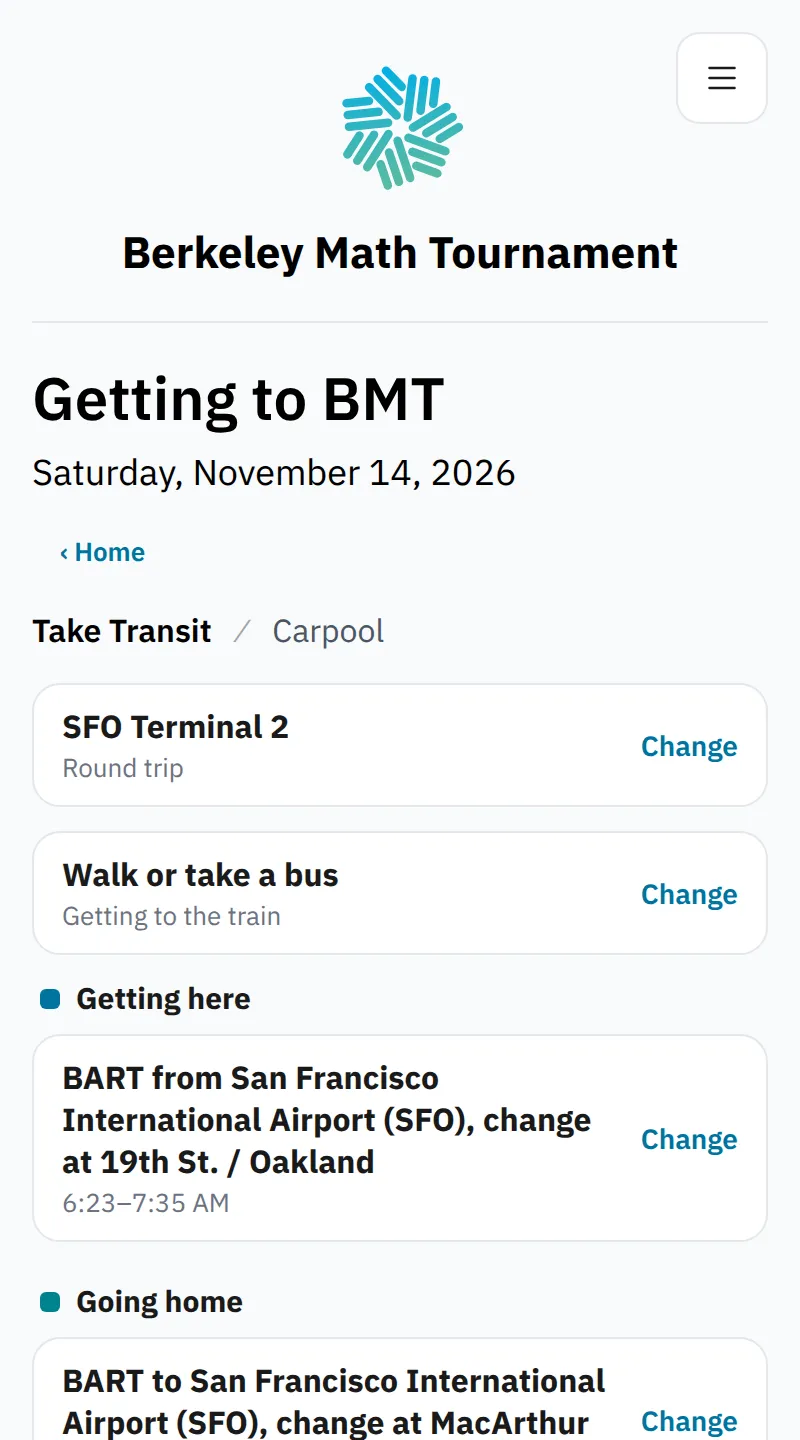
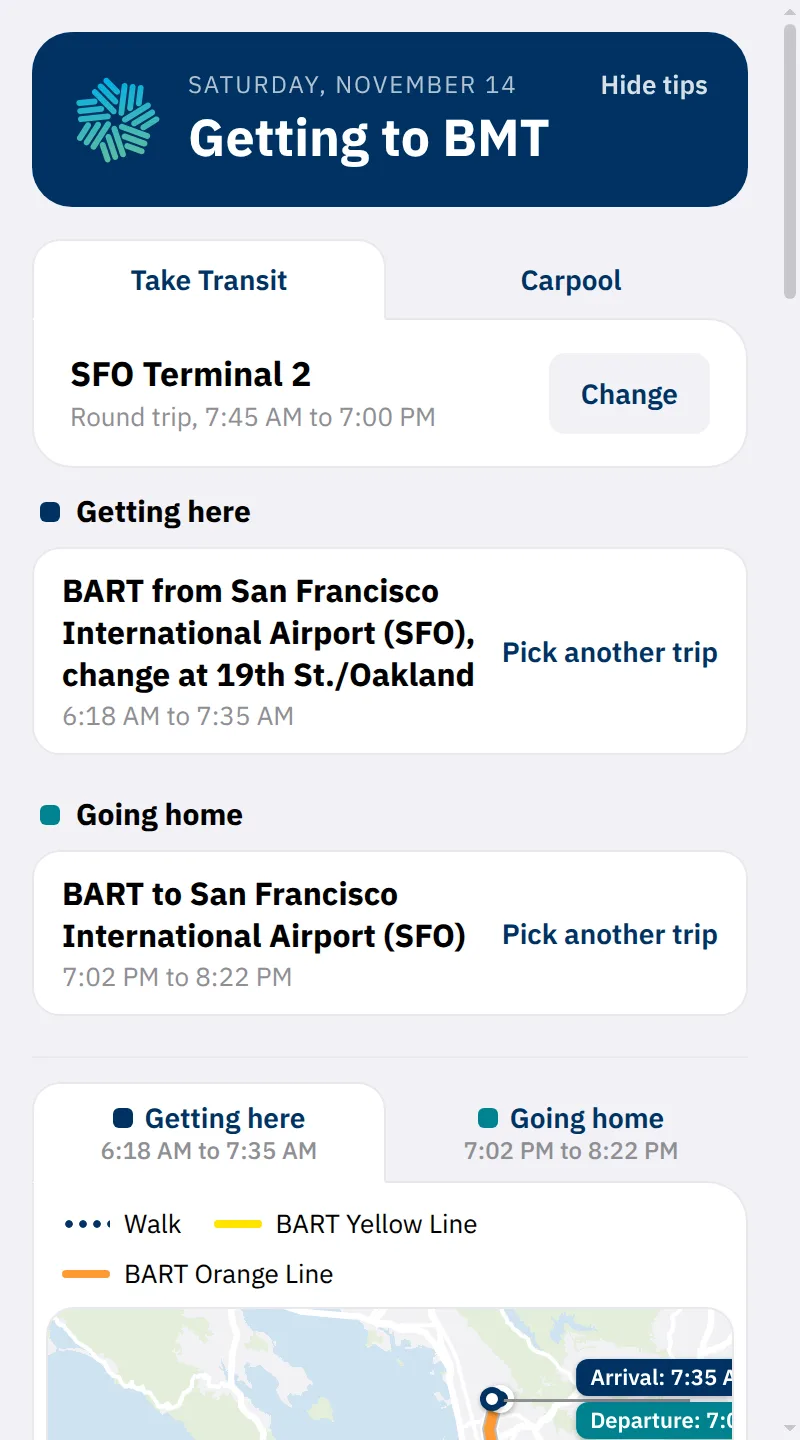
Widen the planner embed on desktop, add tap to pay to fares

diff --git a/templates/shortcodes/planner_embed.html b/templates/shortcodes/planner_embed.html
@@ -1,9 +1,12 @@
 <div class="not-prose my-6 flex flex-col items-center gap-2">
-    <div class="relative w-full max-w-[400px] aspect-[5/9] rounded-xl border border-gray-300 bg-white overflow-hidden">
-        <img src="{{ poster }}" alt="{{ alt }}" loading="lazy" class="w-full h-full object-cover object-top">
+    <div class="relative w-full max-w-[400px] aspect-[5/9] {% if wide %}sm:max-w-none sm:aspect-[3/2] {% endif %}rounded-xl border border-gray-300 bg-white overflow-hidden">
+        <picture>
+            {% if wide %}<source media="(min-width: 640px)" srcset="{{ wide }}">{% endif %}
+            <img src="{{ poster }}" alt="{{ alt }}" loading="lazy" class="w-full h-full object-cover object-top">
+        </picture>
         <div class="absolute inset-x-0 bottom-0 h-40 bg-gradient-to-t from-white via-white/80 to-transparent pointer-events-none"></div>
         <a href="https://taketransit.berkeley.mt/{{ path | safe }}"
-            onclick="if (matchMedia('(max-width: 640px)').matches) return; event.preventDefault(); var f = document.createElement('iframe'); f.src = this.href; f.title = 'BMT Trip Planner'; f.className = 'w-full h-full'; var box = this.parentElement; box.nextElementSibling.classList.remove('hidden'); box.replaceChildren(f);"
+            onclick="if (matchMedia('(max-width: 639px)').matches) return; event.preventDefault(); var f = document.createElement('iframe'); f.src = this.href; f.title = 'BMT Trip Planner'; f.className = 'w-full h-full'; var box = this.parentElement; box.nextElementSibling.classList.remove('hidden'); box.replaceChildren(f);"
             class="absolute bottom-6 left-1/2 -translate-x-1/2 text-base bg-teal-500 text-white py-2 px-4 rounded shadow hover:shadow-lg transition-all">
             Try it here
         </a>

diff --git a/content/news/2026-10-14_bmt-2026-take-transit.md b/content/news/2026-10-14_bmt-2026-take-transit.md
@@ -13,7 +13,7 @@ Our BMT Trip Planner tool helps you plan these trips! Just enter your location t
 
 Below is a sample trip from SFO. Tap **Try it here** to explore it, or type in your own starting point.
 
-{{ planner_embed(path="#trip?f=37.6161,-122.3844&n=SFO%20Terminal%202&m=transit&o=wSFIA&o2=wSFIA", poster="/news/take-transit-planner-sample.webp", alt="BMT Trip Planner showing a trip from SFO Terminal 2 to Dwinelle Hall") }}
+{{ planner_embed(path="#trip?f=37.6161,-122.3844&n=SFO%20Terminal%202&m=transit&o=wSFIA&o2=wSFIA", poster="/news/take-transit-planner-sample.webp", wide="/news/take-transit-planner-sample-wide.webp", alt="BMT Trip Planner showing a trip from SFO Terminal 2 to Dwinelle Hall") }}
 
 {% button_link(href="https://taketransit.berkeley.mt") %} Open the BMT Trip Planner {% end %}
 
@@ -33,7 +33,7 @@ After you arrive at Downtown Berkeley, it's just a short walk to Dwinelle Hall, 
 
 #### How much does transit cost?
 
-Well, we have details about Clipper [here](https://taketransit.berkeley.mt/#pay)! BART, local bus agencies, and Caltrain all accept Clipper. Capitol Corridor (Amtrak) does not accept Clipper, so you'll need to buy that ticket in the Amtrak app or at the station.
+All Bay Area transit agencies, including BART, AC Transit, Muni, Caltrain, and VTA, accept Clipper. They also accept tap to pay with a contactless credit or debit card, or with Apple Pay or Google Pay. Tap to pay charges the full adult fare, and each rider needs their own card or phone. Capitol Corridor (Amtrak) does not accept Clipper or tap to pay, so you'll need to buy that ticket in the Amtrak app or at the station. You can find more details about fares [here](https://taketransit.berkeley.mt/#pay).
 
 There are also ways to reduce the cost of taking transit with a **Youth Clipper card**! Students ages 5 to 18 pay half price. The card comes by mail, so make sure to apply a few weeks early.
 
